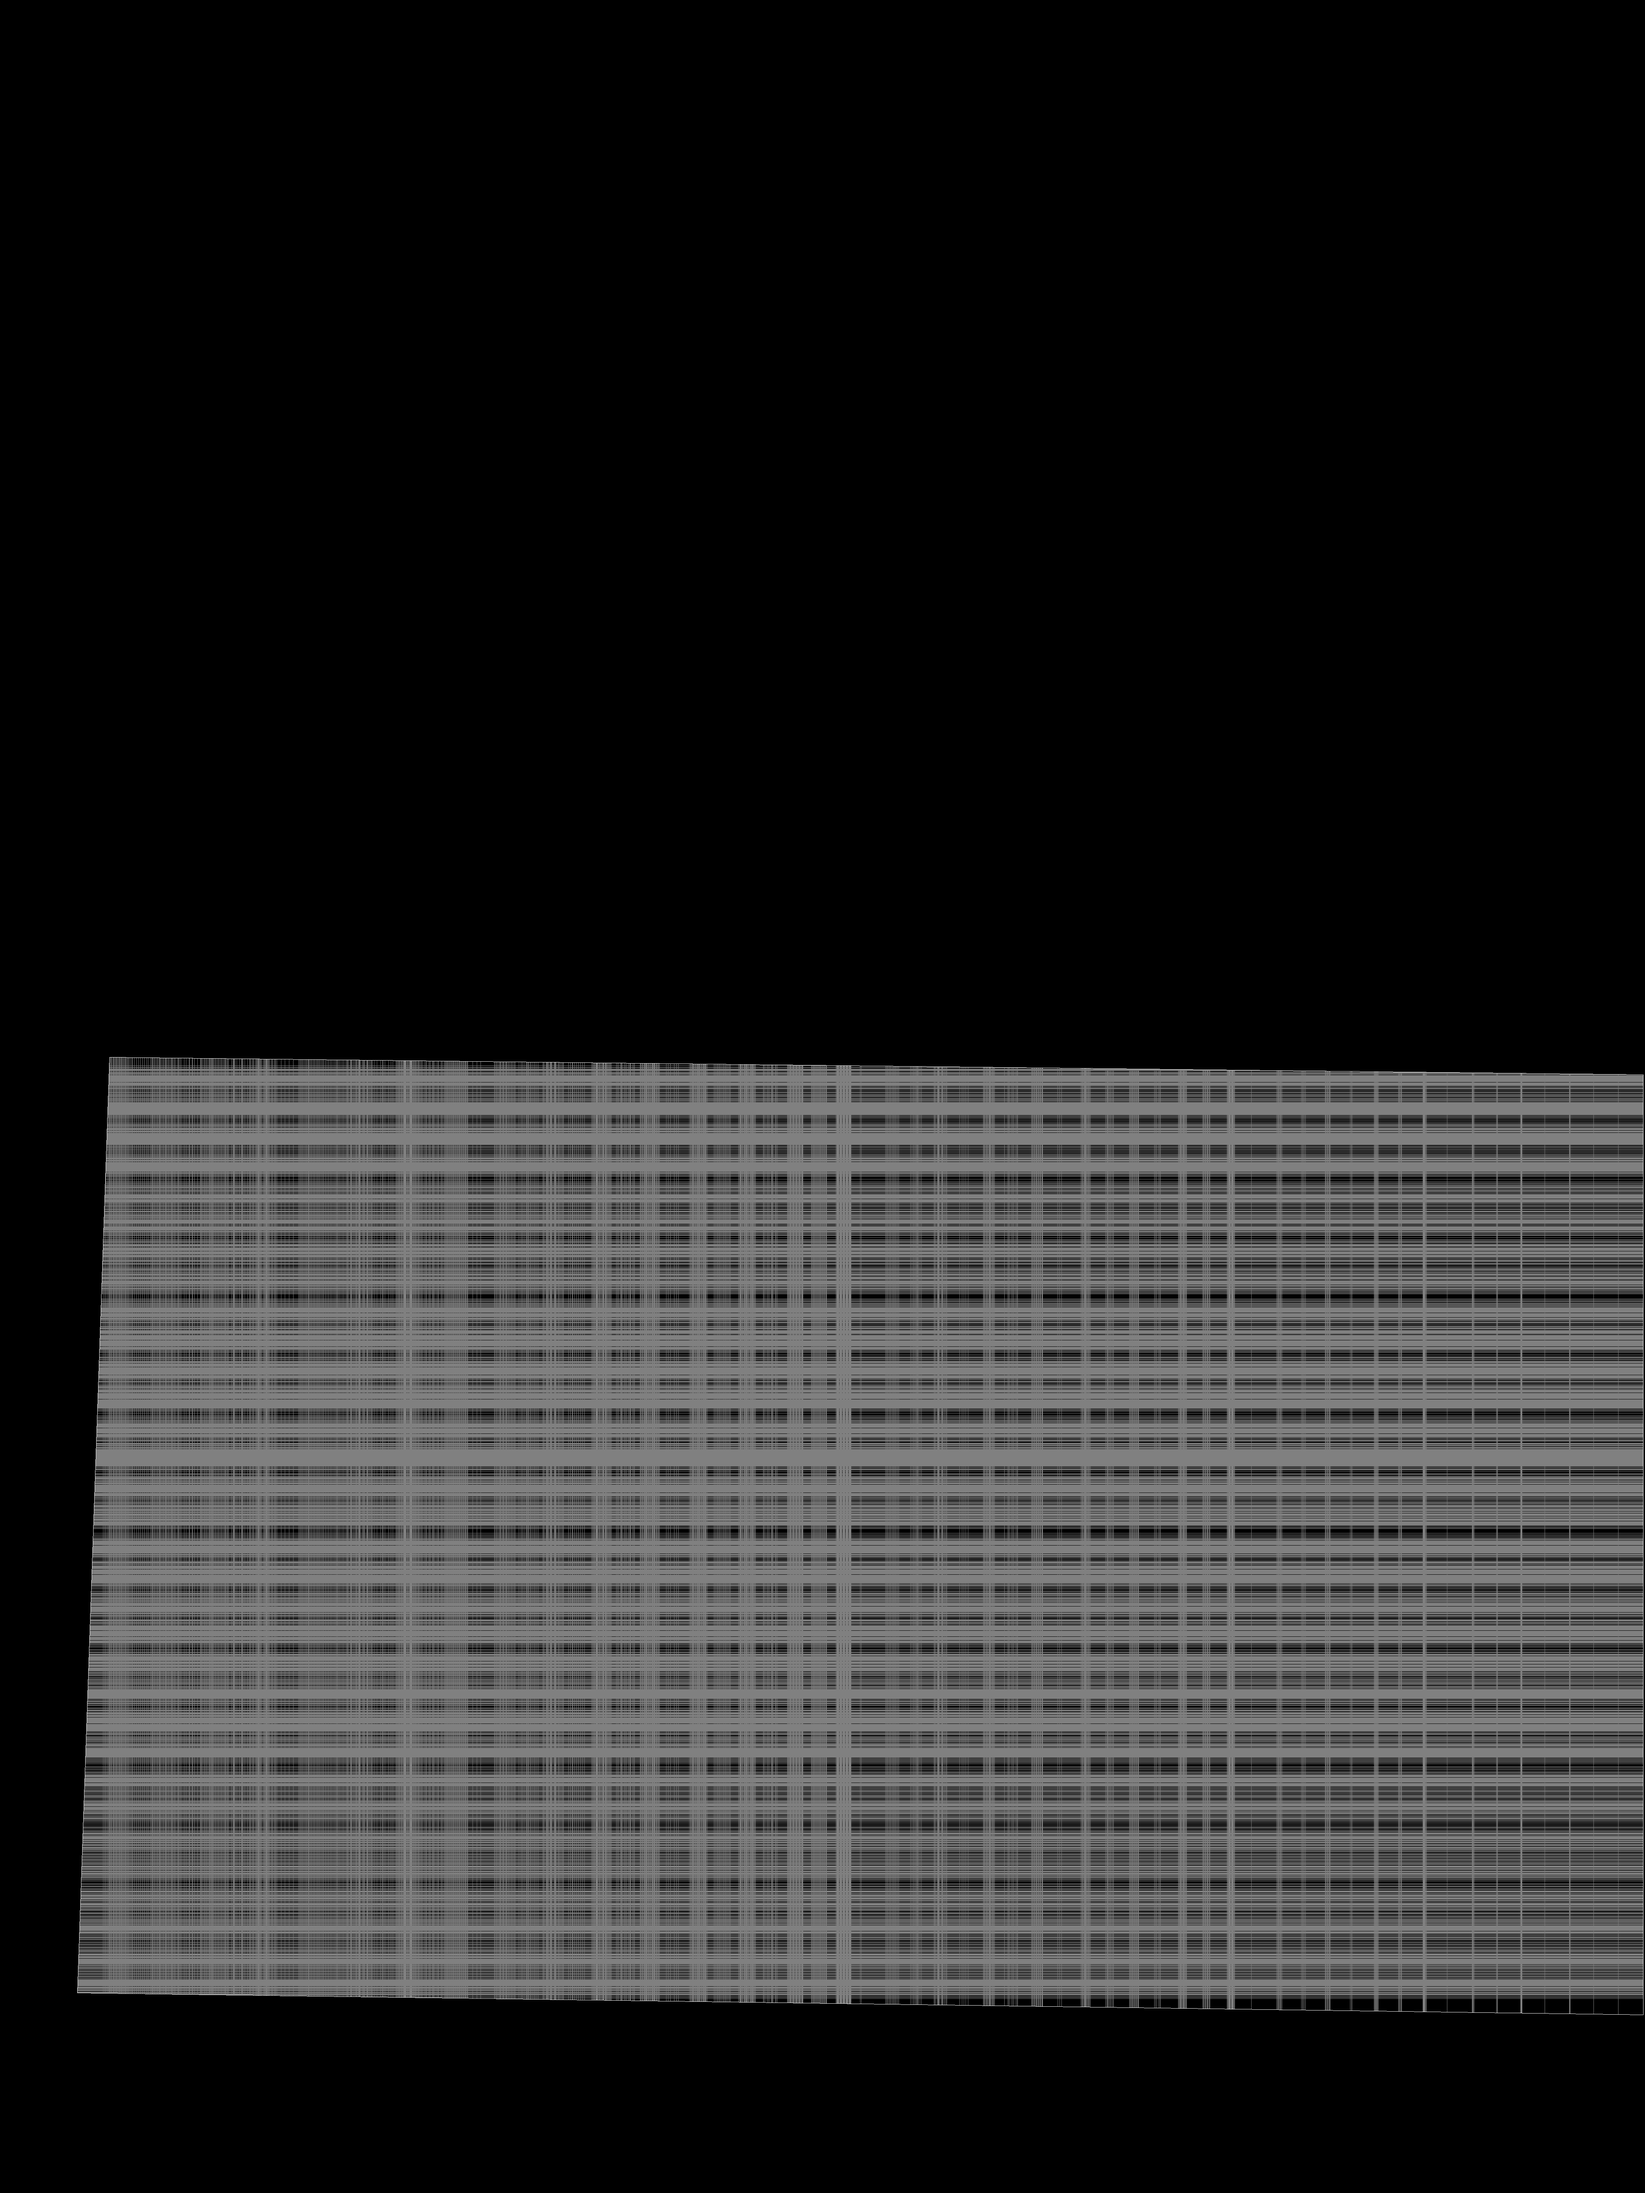
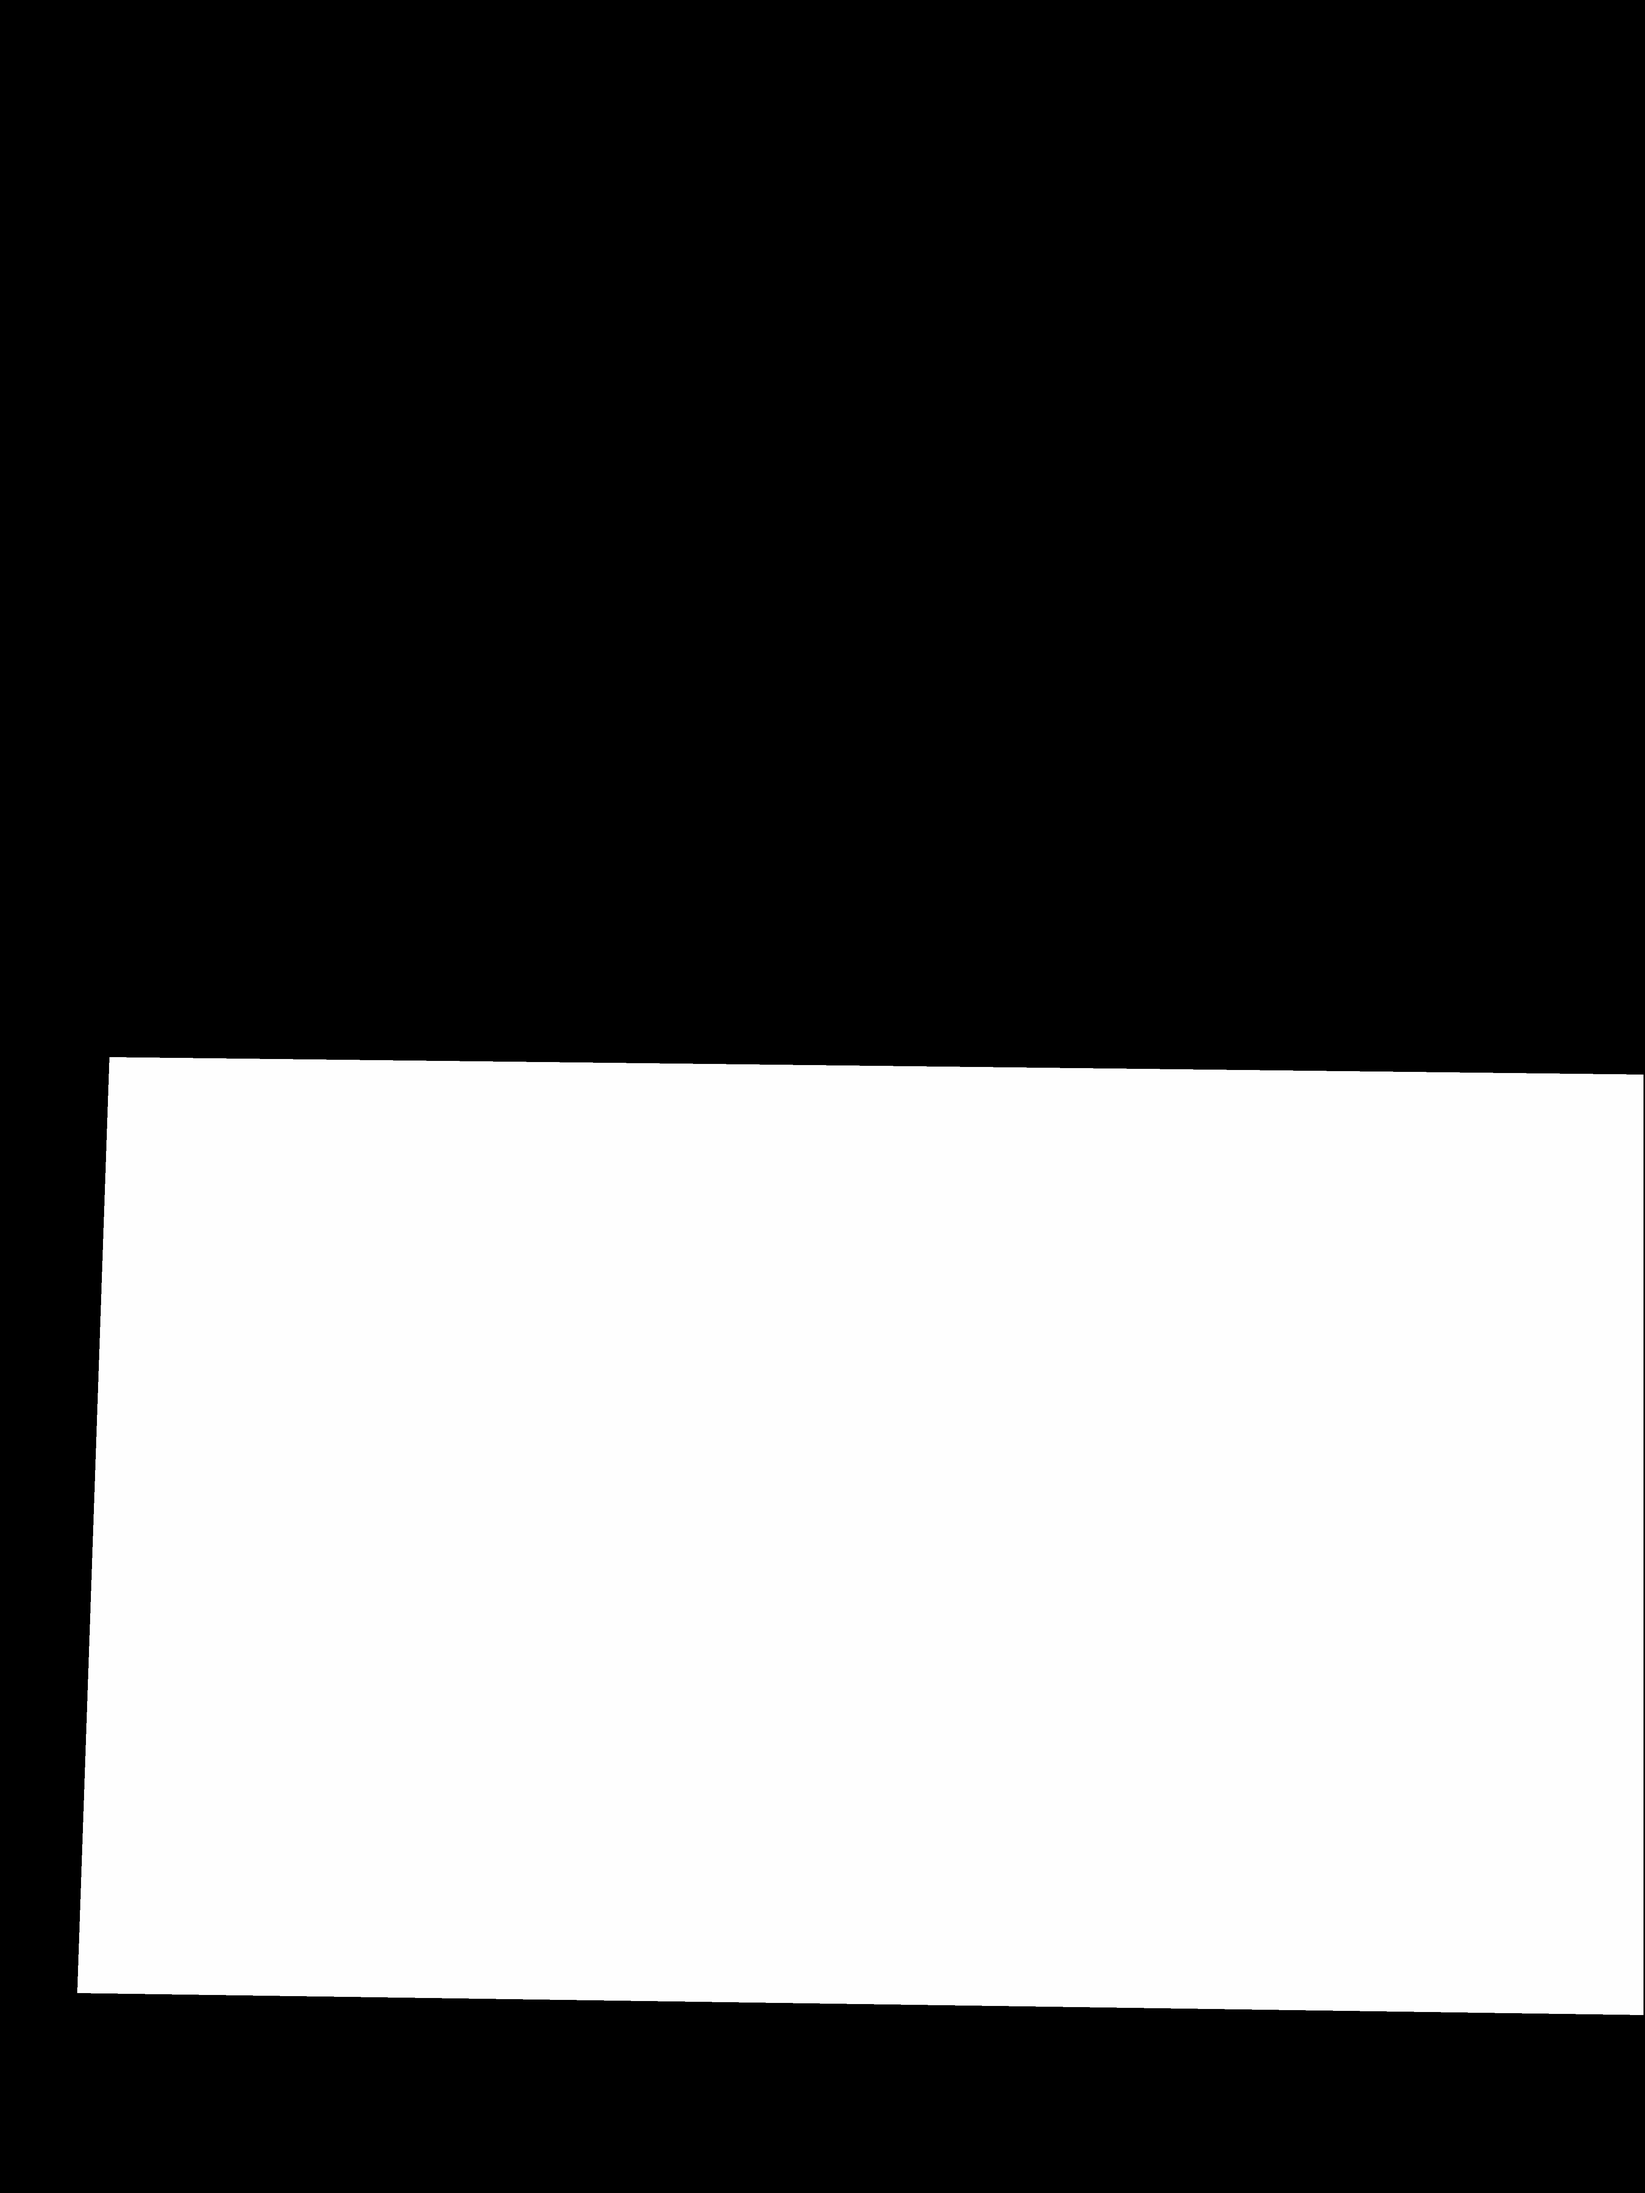
Generated every Validation Images

diff --git a/Code/creationImageValidation.py b/Code/creationImageValidation.py
@@ -6,9 +6,11 @@ import json
 from PIL import Image
 from time import time
 from random import shuffle, randint
+import os
+
 def getLabeling(nomImage: str):
     f = open('../Ressources/labeling/' + nomImage + '.json')
-    #f = open('../Ressources/testsimple/petittest.json')
+    # f = open('../Ressources/testsimple/petittest.json')
     data = json.load(f)
     shapes = data['shapes']
 
@@ -62,31 +64,31 @@ def getpixelSegment(point1, point2):
 
 def getNeighbours(image, point):
     neighbours = []
-    x=point[0]
-    y=point[1]
+    x = point[0]
+    y = point[1]
 
     try:
-        if image[x-1, y] == 0:
-            neighbours.append((x-1, y))
+        if image[x - 1, y] == 0:
+            neighbours.append((x - 1, y))
     except:
         pass
     try:
-        if image[x+1, y] == 0:
-            neighbours.append((x+1, y))
+        if image[x + 1, y] == 0:
+            neighbours.append((x + 1, y))
     except:
         pass
     try:
-        if image[x, y-1] == 0:
-            neighbours.append((x, y-1))
+        if image[x, y - 1] == 0:
+            neighbours.append((x, y - 1))
     except:
         pass
     try:
-        if image[x, y+1] == 0:
-            neighbours.append((x, y+1))
+        if image[x, y + 1] == 0:
+            neighbours.append((x, y + 1))
     except:
         pass
 
-    #shuffle(neighbours)
+    # shuffle(neighbours)
     return neighbours
 
 
@@ -120,98 +122,114 @@ def pixelinpolygones(height, width, polygone):
     for p in contours:
         image[p[1], p[0]] = 255
 
-    #mean of the contour
-    mean_x = (max_x+min_x)/2
-    mean_y = (max_y+min_y)/2
-    print(mean_x, mean_y)
 
-    pixelQueue = [(int(mean_y), int(mean_x), True, True)]
-    cpt = 0
-
-    try:
-        while len(pixelQueue) > 0:
-            cpt += 1
-            #if cpt % 1000 == 0:
-                #print(len(pixelQueue), 'pixels left')
-
-            x, y, hory, verti = pixelQueue.pop(0)
-            pixel = (x, y)
-            if hory:
-                pixelQueue.append(castRayTop(image, pixel))
-                pixelQueue.append(castRayBottom(image, pixel))
-            if verti:
-                pixelQueue.append(castRayLeft(image, pixel))
-                pixelQueue.append(castRayRight(image, pixel))
-
-    except KeyboardInterrupt:
-        pass
 
     # try:
     #     for x in range(max_y-1, min_y-1, -1):
-    #         print(((x-min_y)/(max_y-min_y)*100), '%')
+    #         cpt += 1
+    #         if cpt % 100 == 0:
+    #             print(((x - min_y) / (max_y - min_y) * 100), '%   x:', x, 'cpt:', cpt)
     #         for y in range(min_x, max_x):
     #             if image[x, y] == 0:
     #                 image[x, y] = castRay(image, (x, y), max_x)
     #
     # except KeyboardInterrupt:
     #     pass
-    #
-    # for x in range(min_x, max_x):
+
+    # for x in range(min_y, max_y):
     #     for y in range(min_x, max_x):
     #         if image[x, y] == 128:
-    #             image[x, y] = 255
+    #             if getNeighbours(image, (x, y)):
+    #                 image[x, y] = 0
+    #             else:
+    #                 image[x, y] = 255
+
+    points = []
+
+    y = min_x
+    for x in range(min_y, max_y):
+        points.extend(castRayRight(image, (x, y), max_x))
+
+    y = max_x
+    for x in range(min_y, max_y):
+        points.extend(castRayLeft(image, (x, y), min_x))
+
+    x = max_y
+    for y in range(min_x, max_x):
+        points.extend(castRayUp(image, (x, y), min_y))
+
+    x = min_y
+    for y in range(min_x, max_x):
+        points.extend(castRayDown(image, (x, y), max_x))
+
+    for p in points:
+        image[p[0], p[1]] = 128
+
+    for x in range(min_y, max_y + 1):
+        for y in range(min_x, max_x + 1):
+            if image[x, y] == 128:
+                image[x, y] = 0
+            elif image[x, y] == 0:
+                image[x, y] = 254
+
+    for x in range(min_y, max_y + 1):
+        for y in range(min_x, max_x + 1):
+            if image[x, y] == 254:
+                if getNeighbours(image, (x, y)):
+                    image[x, y] = 0
+
     return image
 
-def castRayTop(image, point):
-    x, y = point
-    x_init = x
 
-    try:
-        while image[x-1, y] != 255:
-            x -= 1
-            image[x, y] = 128
-    except:
-        pass
-    x += (x_init-x) // 2
-    return x, y, False, True
-
-def castRayBottom(image, point):
+def castRayRight(image, point, max_x):
     x, y = point
-    x_init = x
-    try:
-        while image[x+1, y] != 255:
-            x += 1
-            image[x, y] = 128
-    except:
-        pass
-    x +=( x_init-x) // 2
-    return x, y, False, True
+    points = []
+    while x < max_x:
+        if image[x, y] == 255:
+            return points
+        points.append((x, y))
+        y += 1
 
-def castRayLeft(image, point):
-    x, y = point
-    y_init = y
-    try:
-        while image[x, y-1] != 255:
-            y -= 1
-            image[x, y] = 128
-    except:
-        pass
-    y += (y_init-y) // 2
-    return x, y, True, False
+    return points
 
-def castRayRight(image, point):
+
+def castRayLeft(image, point, min_x):
     x, y = point
-    y_init = y
-    try:
-        while image[x, y+1] != 255:
-            y += 1
-            image[x, y] = 128
-    except:
-        pass
-    y += (y_init-y) // 2
-    return x, y, True, False
+    points = []
+    while x > min_x:
+        if image[x, y] == 255:
+            return points
+        points.append((x, y))
+        y -= 1
+
+    return points
+
+
+def castRayUp(image, point, min_y):
+    x, y = point
+    points = []
+    while y > min_y:
+        if image[x, y] == 255:
+            return points
+        points.append((x, y))
+        x -= 1
+
+    return points
+
+
+def castRayDown(image, point, max_y):
+    x, y = point
+    points = []
+    while y < max_y:
+        if image[x, y] == 255:
+            return points
+        points.append((x, y))
+        x += 1
+
+    return points
+
+
 def castRay(image, point, max_x):
-
     nbInter = 0
     x, y = point
     while x < max_x:
@@ -220,7 +238,7 @@ def castRay(image, point, max_x):
             while image[x, y] == 255 and x < max_x:
                 x += 1
 
-        if x < max_x-1 and image[x+1, y] == 128:
+        if x < max_x - 1 and image[x + 1, y] == 128:
             return 128
 
         x += 1
@@ -230,17 +248,82 @@ def castRay(image, point, max_x):
     else:
         return 0
 
+def unionBinaryImage(image1, image2, height, width):
+    for x in range(height):
+        for y in range(width):
+            if image1[x, y] >= 128 or image2[x, y] >= 128:
+                image1[x, y] = 255
+            else:
+                image1[x, y] = 0
 
-height, width, b, l, s = getLabeling('33')
-timeStart = time()
-image = pixelinpolygones(height, width, b[1])
-timeEnd = time()
-print('time: ', timeEnd - timeStart)
-im = Image.fromarray(image)
-im = im.convert('RGB')
-im.save("resultat_Validation.png")
+    return image1
 
-print(len(b))
-print(len(l))
-print(len(s))
+def main():
+    folder_path = '../Ressources/labeling'
+    allowed_extensions = '.json'
+    for filename in os.listdir(folder_path):
+        file_path = os.path.join(folder_path, filename)
+        if filename.endswith(allowed_extensions):
+            board = []
+            lignes = []
+            schema = []
 
+            print(filename)
+            filename = filename.split('.')[0]
+
+            height, width, b, l, s = getLabeling(filename)
+            print(height, width)
+            timeStart = time()
+            for i in range(len(b)):
+                board.append(pixelinpolygones(height, width, b[i]))
+
+            for i in range(len(l)):
+                lignes.append(pixelinpolygones(height, width, l[i]))
+
+            for i in range(len(s)):
+                schema.append(pixelinpolygones(height, width, s[i]))
+
+
+            if len(board) == 0:
+                board.append(np.zeros((height, width), dtype=np.uint8))
+            else:
+                boardImage = board[0]
+                for i in range(1, len(board)):
+                    boardImage = unionBinaryImage(boardImage, board[i], height, width)
+
+
+            if len(lignes) == 0:
+                lignes.append(np.zeros((height, width), dtype=np.uint8))
+            else:
+                lignesImage = lignes[0]
+                for i in range(1, len(lignes)):
+                    lignesImage = unionBinaryImage(lignesImage, lignes[i], height, width)
+
+            if len(schema) == 0:
+                schema.append(np.zeros((height, width), dtype=np.uint8))
+            else:
+                schemaImage = schema[0]
+                for i in range(1, len(schema)):
+                    schemaImage = unionBinaryImage(schemaImage, schema[i], height, width)
+
+            timeEnd = time()
+            print('time: ', timeEnd - timeStart)
+            if not os.path.exists("../Validation/labeling/" + filename):
+                os.makedirs("../Validation/labeling/" + filename)
+
+            im = Image.fromarray(boardImage)
+            im = im.convert('RGB')
+            im.save("../Validation/labeling/" + filename + "/board.png")
+
+            im = Image.fromarray(lignesImage)
+            im = im.convert('RGB')
+            im.save("../Validation/labeling/" + filename + "/lignes.png")
+
+            im = Image.fromarray(schemaImage)
+            im = im.convert('RGB')
+            im.save("../Validation/labeling/" + filename + "/schema.png")
+
+
+
+if __name__ == '__main__':
+    main()
